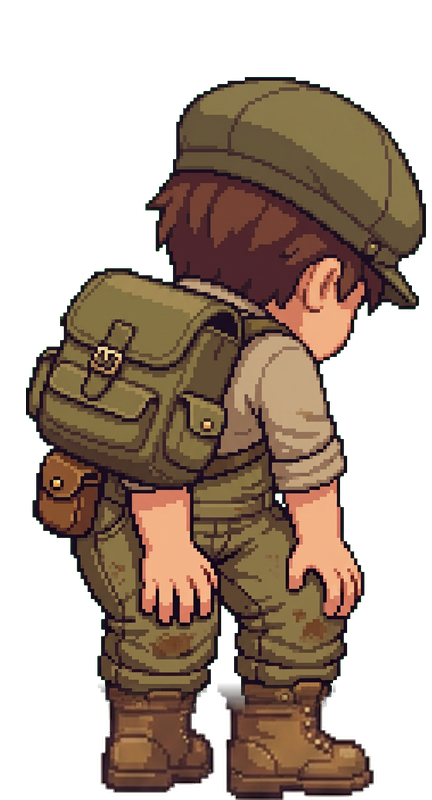
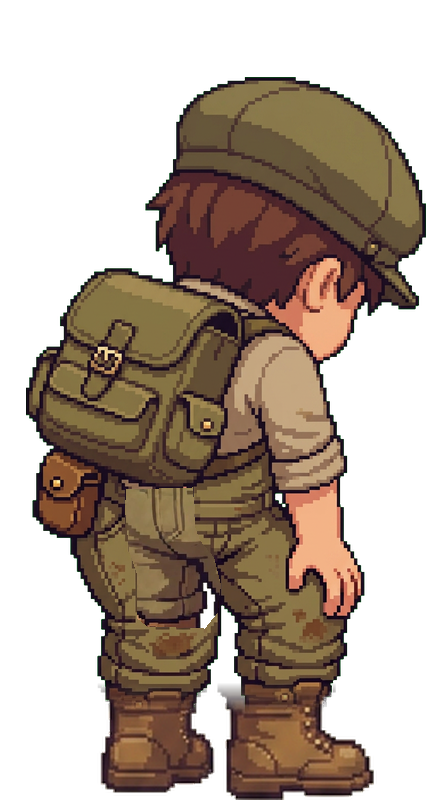
Hide far hand in rear idle bow poses

Changed region(s): [[0.2708, 0.5938, 0.5116, 0.8125]]

diff --git a/preview/app.js b/preview/app.js
@@ -1750,7 +1750,7 @@
   const characterShadowMasks=new WeakMap();
   const idleBowController=window.PlayerIdleBow.create();
   const idleBowFrames=Object.fromEntries(['front','back'].map(side=>[side,
-    ['transition','concept'].map(pose=>{const image=new Image();image.dataset.playerIdleBow='true';image.src=`./assets/player-idle-${side}-${pose}.png?v=3`;return image;})]));
+    ['transition','concept'].map(pose=>{const image=new Image();image.dataset.playerIdleBow='true';image.src=`./assets/player-idle-${side}-${pose}.png?v=4`;return image;})]));
   let idleBowAmount=0, idleBowSprite=null;
   function updateIdleBow(now) {
     const world=window.worldManager?.getActive(), character=window.worldManager?.getCharacter();

diff --git a/preview/index.html b/preview/index.html
@@ -17,7 +17,7 @@
   <script src="./cloud-layout.js?v=1" defer></script>
   <script src="./tree-shadow.js?v=1" defer></script>
   <script src="./player-idle-bow.js?v=3" defer></script>
-  <script src="./app.js?v=sky-234" defer></script>
+  <script src="./app.js?v=sky-235" defer></script>
   <script src="./preview-modes.js?v=2" defer></script>
   <script src="./editor-camera.js?v=7" defer></script>
   <script src="./terrain-tools.js?v=107" defer></script>

diff --git a/tools/build_player_idle_exhausted.py b/tools/build_player_idle_exhausted.py
@@ -1,9 +1,10 @@
 #!/usr/bin/env python3
 """Extract the new exhausted key poses; preserve the original sprites and foot anchor."""
 from pathlib import Path
-from PIL import Image, ImageOps
+from PIL import Image, ImageOps, ImageDraw
 ROOT=Path(__file__).resolve().parents[1]
-specs=[('front','transition'),('front','concept'),('back','transition'),('back','concept')]
+specs=[('front','transition'),('front','concept'),('back','concept'),('back','transition')]
+back_occluded=None
 for view,pose in specs:
     im=Image.open(ROOT/f'preview/assets/character-redraw/idle-exhausted-{view}-{pose}.png').convert('RGBA')
     pixels=im.load()
@@ -32,6 +33,37 @@ for view,pose in specs:
     join=Image.new('L',(432,800))
     join.putdata([round(255*min(1,max(0,(y-682)/30))) for y in range(800) for _ in range(432)])
     canvas=Image.composite(standing,canvas,join)
+    if view=='back':
+        mask=Image.new('L',canvas.size);draw=ImageDraw.Draw(mask)
+        if pose=='concept':
+            # Far hand is behind the body in this rear view. Rebuild the covered fabric
+            # using unoccluded pixels from the original player rather than painting skin.
+            draw.polygon([(126,489),(192,487),(194,526),(199,540),(213,557),(220,584),(217,612),(204,628),(147,626),(137,618),(137,574),(129,550),(125,510)],fill=255)
+            source=Image.open(ROOT/'preview/assets/main-character.png').convert('RGBA')
+            patch=Image.new('RGBA',canvas.size);patch.paste(source.crop((0,60,432,800)),(0,0))
+            canvas=Image.composite(patch,canvas,mask)
+            back_occluded=canvas.copy()
+        else:
+            # Transition uses the matching already-repaired trousers behind the arm.
+            draw.polygon([(162,493),(215,466),(232,475),(248,503),(265,518),(282,535),(292,554),(294,577),(285,599),(270,612),(217,614),(204,599),(202,565),(190,548),(178,527)],fill=255)
+            canvas=Image.composite(back_occluded,canvas,mask)
+            pixels=canvas.load()
+            def skin(v):
+                r,g,b,a=v
+                return a and r>150 and r>g*1.25 and r>b*1.25 and g>65
+            # Clean tiny skin/outline remnants along the overlap using adjacent fabric pixels.
+            for y in range(510,615):
+                for x in range(165,298):
+                    if skin(pixels[x,y]):
+                        for k in range(1,100):
+                            if x-k>=80 and not skin(pixels[x-k,y]) and pixels[x-k,y][3]>200:
+                                pixels[x,y]=pixels[x-k,y];break
+            seam=Image.new('L',canvas.size)
+            ImageDraw.Draw(seam).polygon([(280,536),(292,544),(298,558),(298,584),(291,600),(280,598)],fill=255)
+            ms=seam.load()
+            for y in range(530,605):
+                for x in range(275,300):
+                    if ms[x,y]:pixels[x,y]=pixels[x-18,y]
     name=f'player-idle-{view}-{pose}.png';dest=ROOT/'preview/assets'/name;canvas.save(dest,optimize=True)
     (ROOT/f'app/src/main/res/drawable-nodpi/{name.replace("-","_")}').write_bytes(dest.read_bytes())
     print(name,box,canvas.getbbox())

diff --git a/tools/test_player_idle_sprites.py b/tools/test_player_idle_sprites.py
@@ -16,5 +16,10 @@ for side in ('front','back'):
         assert abs((feet[0]+feet[2]-reference[0]-reference[2])/2)<=3, (name,feet,reference)
         assert abs((feet[2]-feet[0])-(reference[2]-reference[0]))<=15, (name,feet,reference)
         assert im.crop((0,712,432,800)).tobytes()==standing.crop((0,712,432,800)).tobytes(),name
+        if side=='back':
+            def skin_count(rect):
+                return sum(1 for r,g,b,a in im.crop(rect).getdata() if a and r>150 and r>g*1.25 and r>b*1.25 and g>65)
+            assert skin_count((170,490,280,605))==0, 'far hand must be hidden: '+name
+            assert skin_count((310,495,395,610))>1000, 'near hand must remain visible: '+name
         assert im.getchannel('A').getextrema()==(0,255),name
 print('Exhausted pose assets: transparent, consistent anchor, browser/Android parity: OK')

diff --git a/docs/player-idle-bow.md b/docs/player-idle-bow.md
@@ -2,4 +2,4 @@
 
 Saat gameplay player diam pada block yang sama selama 3 detik, player membungkuk secara halus selama setengah detik, menahan pose satu detik, lalu tegak kembali dalam setengah detik. Jika tetap diam, siklus dimulai lagi setiap 3 detik (dengan jeda satu detik setelah kembali tegak). Berjalan, berpindah block/world, meninggalkan gameplay atau menyembunyikan aplikasi memulai ulang penghitung. Reduced motion/animasi sistem nonaktif tidak menampilkan gerakan ini. Tidak ada perubahan pada data world.
 
-Sprite berdiri lama dipertahankan. Animasi menggunakan pose utuh berdiri → peralihan → membungkuk dengan kedua tangan pada lutut, lalu kembali. Kedua tampak depan dan belakang memiliki aset sendiri, dengan arah lain memakai cermin seperti renderer player sebelumnya. Semua pose menggunakan aturan skala yang sama tanpa memperkecil seluruh player saat membungkuk; sepatu menggunakan gambar sprite berdiri yang sama dengan sambungan di pergelangan, dan bayangan menggunakan siluet pose yang aktif. Karena keyframe digambar terpisah, proporsi tubuh dan tampilan kaki belum identik piksel demi piksel. Ini animasi tiga pose diskret, bukan rig atau tween anatomi penuh; transisinya mungkin terlihat bertahap. Bagian bawah di air tetap menggunakan renderer terendam. Animasi berjalan tidak diubah. Android memakai aset dan logika yang sama, tetapi belum diuji lewat build atau perangkat.
+Sprite berdiri lama dipertahankan. Animasi menggunakan pose utuh berdiri → peralihan → membungkuk dengan kedua tangan pada lutut, lalu kembali. Kedua tampak depan dan belakang memiliki aset sendiri, dengan arah lain memakai cermin seperti renderer player sebelumnya. Pada tampak belakang, tangan jauh tertutup badan dan hanya tangan dekat yang terlihat; ini perubahan occlusion, bukan rig manual yang sudah selesai. Semua pose menggunakan aturan skala yang sama tanpa memperkecil seluruh player saat membungkuk; sepatu menggunakan gambar sprite berdiri yang sama dengan sambungan di pergelangan, dan bayangan menggunakan siluet pose yang aktif. Karena keyframe digambar terpisah, proporsi tubuh dan tampilan kaki belum identik piksel demi piksel. Ini animasi tiga pose diskret, bukan rig atau tween anatomi penuh; transisinya mungkin terlihat bertahap. Bagian bawah di air tetap menggunakan renderer terendam. Animasi berjalan tidak diubah. Android memakai aset dan logika yang sama, tetapi belum diuji lewat build atau perangkat.
